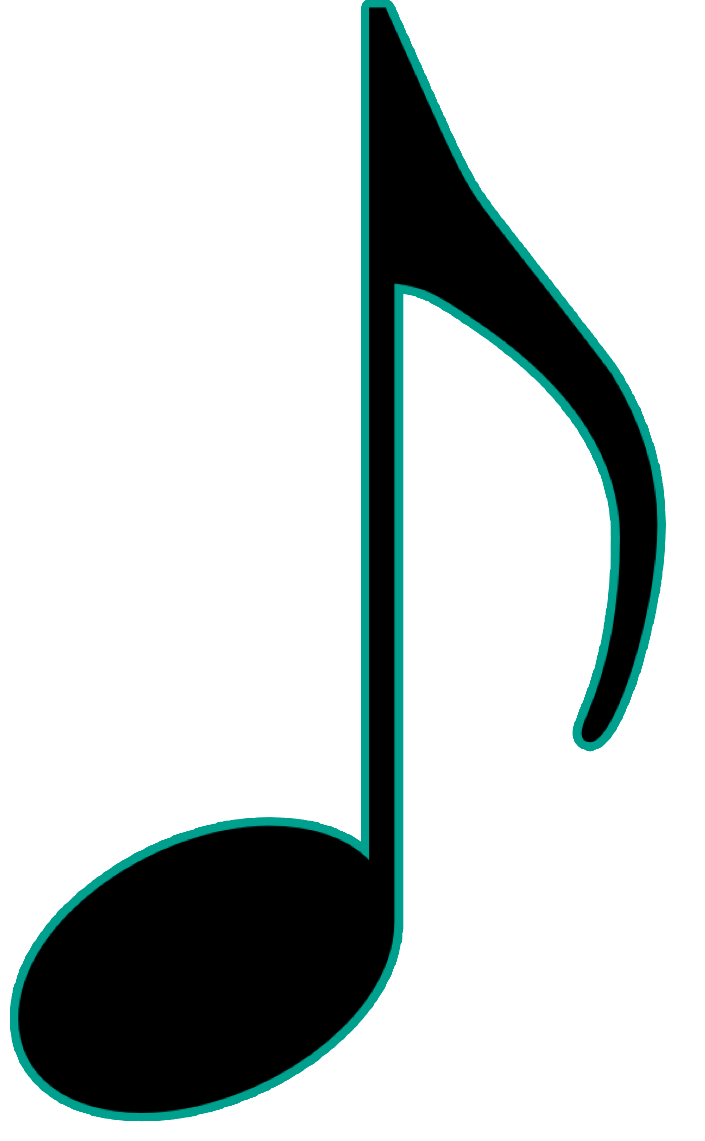
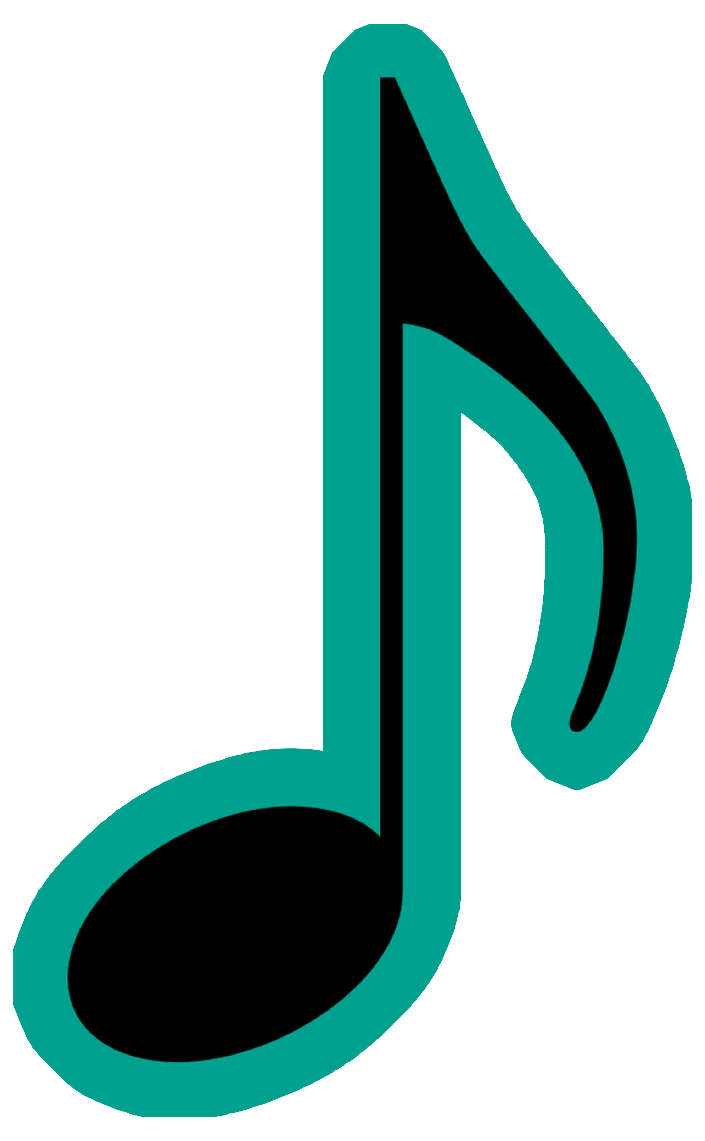
Add files via upload
Edited the Browser Icon and worked on the Responsive Design CSS a bit more (hopefully it looks good across all devices now!)

Changed region(s): [[0.0, 0.0, 0.9986, 0.9816]]

diff --git a/desktopLayout2.css b/desktopLayout2.css
@@ -2,12 +2,11 @@
 html{
 	background-color: MidnightBlue;
 	color: white;
-	max-width: 450px;
+	width: 1200px;
 	padding: 5px;
 	margin: auto;
 	
 	background-image: url("backgroundImage1.jpg");
-	/* background-repeat: no-repeat; */
 	background-attachment: fixed;
 	background-size: cover;
 }
@@ -27,17 +26,17 @@ hr{
 #header{
 	margin: auto;
 	margin-bottom: 20px;
-	height: 16vh;
+	height: 100px;
 }
 #navCol{
-	width: 30%;
+	width: 150px;
 	float: left;
-	font-size: 70%;
 }
 #mainContent{
-	margin-left: 38%;
+	margin-left: 175px;
 	min-height: 1000px;
 	padding-bottom: 20px;
+	font-size: 12pt;
 }
 
 
@@ -46,19 +45,15 @@ hr{
 	text-align: center;
 }
 #headerText{
-	/* font-size: 50pt; */
-	font-size: 8vw;
+	font-size: 50pt;
 	text-align: center;
 	font-weight: bold;
 	text-shadow: 0px 0px 3px aqua;
 }
 #subHeader{
 	color: rgba(255, 255, 255, 0.7);
-	/* font-size: 10pt; */
-	font-size: 2.5vw;
+	font-size: 10pt;
 	display: block;
-	/* margin-top: 25px; */
-	/* margin-left: 1090px; */
 	font-style: italic;
 	font-family: monospace;
 }
@@ -70,8 +65,7 @@ hr{
 }
 .navcolHeader{
 	font-weight: bold;
-	/* font-size: 13pt; */
-	font-size: 3.5vw;
+	font-size: 13pt;
 }
 #twitterLink{
 	color: cyan;
@@ -91,17 +85,17 @@ hr{
 	padding-left: 10px;
 }
 .links, a{
-	/* width: 150px; */
+	width: 150px;
 	height: 20px;
 	background: none;
 	color: white;
-	font-size: 3vw;
+	font-size: 12pt;
 	text-decoration: none;
 }
 .links:hover{
 	font-style: italic;
 	cursor: pointer;
-	padding-left: 10%;
+	/* padding-left: 15px; */
 	border-left: 1px solid aqua;
 	font-weight: bold;
 	
@@ -110,13 +104,12 @@ hr{
 }
 /* Specific CSS for the body (main content) of the webpage */
 #mainContent{
-	padding-left: 2vw;
-	padding-right: 2vw;
-	font-size: 3vw;
+	padding-left: 20px;
+	padding-right: 20px;
 }
 .content{
-	padding-left: 3vw;
-	text-indent: 5vw;
+	padding-left: 20px;
+	text-indent: 30px;
 }
 .finished{
 	text-decoration: line-through;

diff --git a/index.html b/index.html
@@ -4,14 +4,17 @@
  <head>
   <title>Busic Music - Home Page</title>
   
-  <link rel="icon" type="image/png" href="browserIcon.png"/>
+  <link rel="icon" href="browserIcon.png"/>
   
   <!-- CSS for Mobile Cellphones (1px - Default CSS) -->
   <link href="mobileLayout.css" type="text/css" rel="stylesheet" media='screen and (min-width: 1px)'/>
   <!-- CSS for Tablets (>=450px width) -->
   <link href="tabletLayout.css" type="text/css" rel="stylesheet" media='screen and (min-width: 450px)'/>
-  <!-- CSS for Desktops (>=700px width) -->
+  <!-- CSS for Desktops (small window) (>=700px width) -->
   <link href="desktopLayout.css" type="text/css" rel="stylesheet" media='screen and (min-width: 700px)'/>
+  <!-- CSS for Desktops (medium window) (>=750px width) -->
+  <link href="desktopLayout2.css" type="text/css" rel="stylesheet" media='screen and (min-width: 750px)'/>
+  
   
   <!-- So far no JS has been implemented -->
   <script link="homeScript.js" type="text/javascript" rel="javascript"></script>

diff --git a/tabletLayout.css b/tabletLayout.css
@@ -27,7 +27,7 @@ hr{
 #header{
 	margin: auto;
 	margin-bottom: 20px;
-	height: 17.5vh;
+	height: 15vh;
 }
 #navCol{
 	width: 30%;
